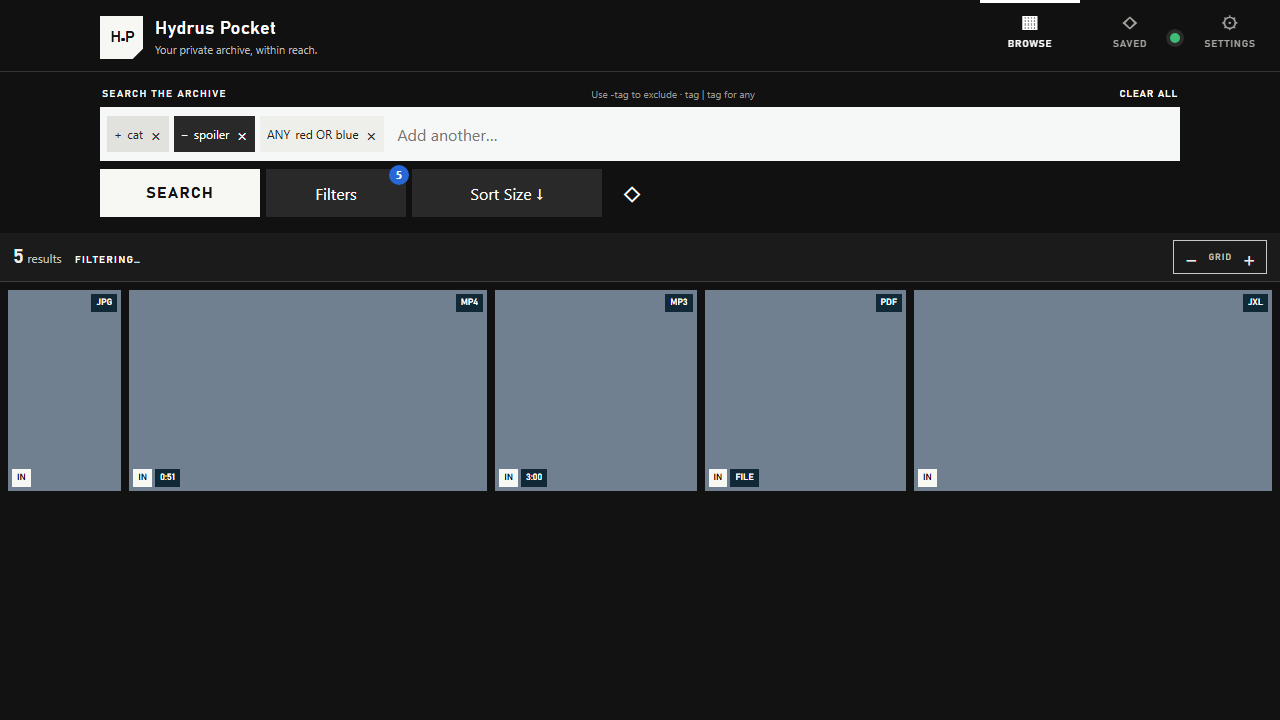
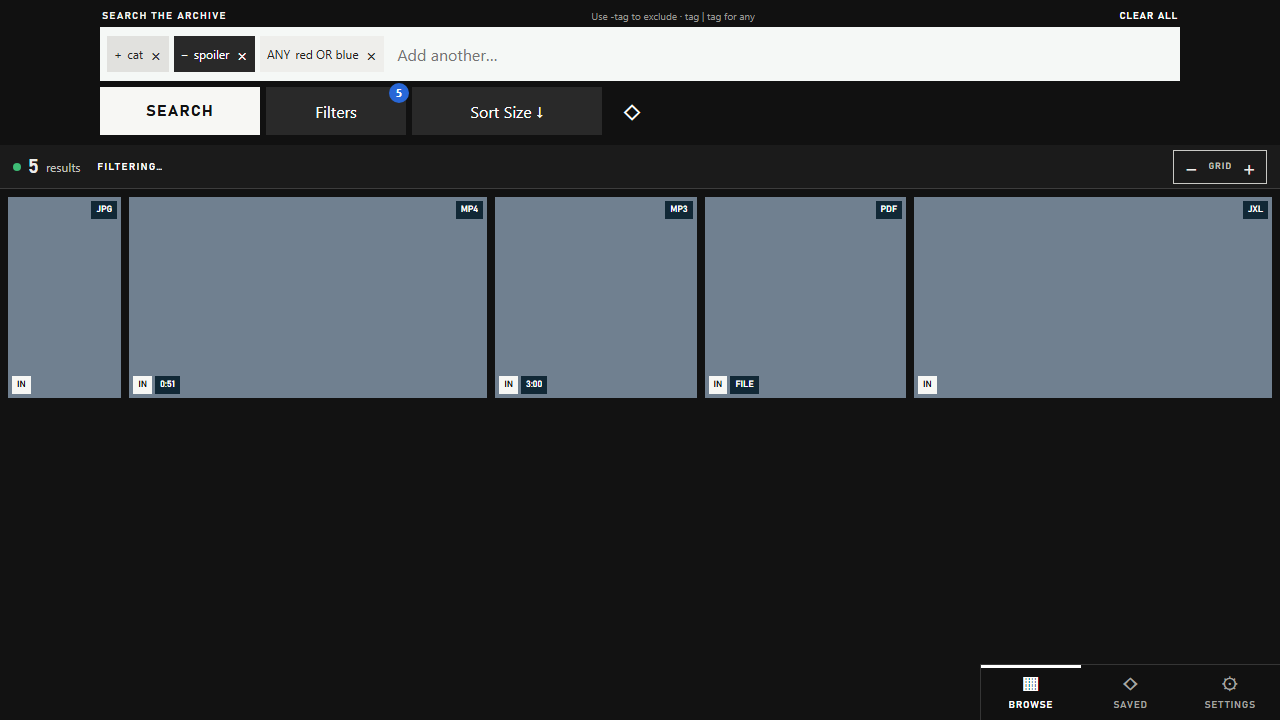
reclaim browse space with compact chrome

diff --git a/src/styles.css b/src/styles.css
@@ -103,7 +103,7 @@ button {
   background: #ff6471;
 }
 .search-panel {
-  padding: 12px 12px 10px;
+  padding: 8px 10px;
   background: var(--ink);
   color: white;
   z-index: 5;
@@ -115,7 +115,7 @@ button {
   display: flex;
   justify-content: space-between;
   align-items: end;
-  margin: 0 2px 7px;
+  margin: 0 2px 5px;
   font:
     600 10px/1.1 Bahnschrift,
     sans-serif;
@@ -237,7 +237,7 @@ button {
   display: grid;
   grid-template-columns: 1fr auto auto 48px;
   gap: 6px;
-  margin-top: 8px;
+  margin-top: 6px;
 }
 .primary,
 .secondary,
@@ -295,7 +295,7 @@ button {
   font-size: 24px;
 }
 .results-bar {
-  height: 49px;
+  height: 44px;
   flex: none;
   display: flex;
   align-items: center;
@@ -303,6 +303,17 @@ button {
   padding: 0 13px;
   background: white;
   border-bottom: 1px solid var(--line);
+}
+.result-summary {
+  display: flex;
+  align-items: center;
+  gap: 7px;
+}
+.result-summary .health-dot {
+  flex: none;
+  width: 8px;
+  height: 8px;
+  box-shadow: none;
 }
 .results-bar strong {
   font:
@@ -1195,16 +1206,18 @@ button {
     grid-column: auto;
   }
   .browse-page {
-    height: calc(100dvh - 64px);
+    height: 100dvh;
   }
   .bottom-nav {
-    height: 64px;
+    height: 56px;
     left: auto;
-    top: 0;
-    bottom: auto;
+    top: auto;
+    bottom: 0;
     width: 300px;
-    border: 0;
-    background: transparent;
+    border: 1px solid #353535;
+    border-bottom: 0;
+    border-right: 0;
+    background: var(--ink);
   }
   .app-shell {
     padding-bottom: 0;
@@ -1213,8 +1226,11 @@ button {
     height: 72px;
   }
   .search-panel {
-    padding-top: 16px;
-    padding-bottom: 16px;
+    padding-top: 10px;
+    padding-bottom: 10px;
+  }
+  .grid-scroll {
+    padding-bottom: 64px;
   }
   .sub-page {
     padding-bottom: 60px;

diff --git a/src/App.tsx b/src/App.tsx
@@ -249,23 +249,6 @@ function Browse({
   };
   return (
     <main className="browse-page">
-      <header className="masthead">
-        <div>
-          <span className="brand-mark">
-            H<span>●</span>P
-          </span>
-          <div>
-            <h1>Hydrus Pocket</h1>
-            <p>Your private archive, within reach.</p>
-          </div>
-        </div>
-        <span
-          className={`health-dot ${health?.hydrus === "ok" ? "ok" : "bad"}`}
-          title={
-            health?.hydrus === "ok" ? "Hydrus connected" : "Hydrus unavailable"
-          }
-        />
-      </header>
       <section className="search-panel">
         <SearchComposer
           tokens={draft.tokens}
@@ -351,7 +334,21 @@ function Browse({
       {search.data && (
         <>
           <div className="results-bar" role="status" aria-live="polite">
-            <div>
+            <div className="result-summary">
+              <span
+                className={`health-dot ${health?.hydrus === "ok" ? "ok" : "bad"}`}
+                title={
+                  health?.hydrus === "ok"
+                    ? "Hydrus connected"
+                    : "Hydrus unavailable"
+                }
+                aria-label={
+                  health?.hydrus === "ok"
+                    ? "Hydrus connected"
+                    : "Hydrus unavailable"
+                }
+                role="img"
+              />
               <strong>{fileIds.length.toLocaleString()}</strong>
               <span>
                 {" "}

diff --git a/server/app.ts b/server/app.ts
@@ -187,7 +187,7 @@ export async function buildApp(
       return {
         gateway: "ok",
         hydrus: missingPermissions.length || unsupportedApi ? "error" : "ok",
-        version: "1.1.0",
+        version: "1.2.0",
         hydrusVersion: version.hydrus_version,
         apiVersion: version.version,
         permissions: permissions.basic_permissions,
@@ -214,7 +214,7 @@ export async function buildApp(
         return {
           gateway: "ok",
           hydrus: "error",
-          version: "1.1.0",
+          version: "1.2.0",
           code: error.code,
           message: error.message,
           lastSuccess: hydrus.getLastSuccess(),

diff --git a/src/components/Media.tsx b/src/components/Media.tsx
@@ -179,8 +179,11 @@ export function ResultsGrid({
     overscan: 4,
   });
   useEffect(() => {
-    const saved = Number(localStorage.getItem(storageKey) ?? 0);
-    const frame = requestAnimationFrame(() => virtual.scrollToOffset(saved));
+    const frame = requestAnimationFrame(() =>
+      virtual.scrollToOffset(
+        Number(localStorage.getItem(storageKey) ?? 0),
+      ),
+    );
     return () => cancelAnimationFrame(frame);
   }, [virtual, storageKey, rows.length, width]);
   const visible = virtual.getVirtualItems();

diff --git a/e2e/app.spec.ts b/e2e/app.spec.ts
@@ -265,6 +265,13 @@ test("viewer navigation and reload restore the exact grid position", async ({
   await page.goto("/");
   const grid = page.locator("#results-scroll");
   await expect(grid).toBeVisible();
+  await expect
+    .poll(() =>
+      grid.evaluate(
+        (element) => element.scrollHeight - element.clientHeight,
+      ),
+    )
+    .toBeGreaterThanOrEqual(600);
   await grid.evaluate((element) => {
     element.scrollTop = 600;
     element.dispatchEvent(new Event("scroll"));

diff --git a/docs/AUDIT.md b/docs/AUDIT.md
@@ -2,7 +2,7 @@
 
 This audit maps the controlling `prompt.txt` scope to current evidence. “Automated” means repeatable local tests; “live” means the real Hydrus v649 / Client API v83 or the deployed tailnet service; “external” requires the physical Pixel or a user-designated mutable file.
 
-## Proven through v1.1.0
+## Proven through v1.2.0
 
 - Architecture/security: same-origin Fastify gateway, localhost Hydrus, renewable server-side session key, no generic proxy/CORS, validated bodies/queries, redacted headers, CSP/security headers, rate/body limits, `no-store` originals/API, secret scan, and tailnet-only HTTPS.
 - Health/recovery: diagnostic health, strict readiness, API-version/permission checks, timeout and error codes, session renewal, aborted-stream cleanup, graceful shutdown, continuously capped logs, crash restart, startup registration, health command, uninstall, update, and executable rollback path.
@@ -11,7 +11,7 @@ This audit maps the controlling `prompt.txt` scope to current evidence. “Autom
 - Mixed media: original-quality browser-native images plus quality-95 Hydrus-rendered JPEG XL with thumbnail placeholders, a page-session 200 MB LRU image cache warmed bidirectionally by six workers and retained across viewer reopenings, video poster/metadata warming, double-tap/double-click zoom, pinch/pan, swipe navigation, swipe-down close, video/audio native seeking, Range relay, audio placeholder, animation/inbox/duration/unsupported indicators, and metadata fallback.
 - Collection flow: tag ribbon on every viewed item, tag-to-current-search refinement, clean tag exploration branches with Back restoration, auto-applied chips/filters/sorts/limits, and retained results/metadata during background refinement.
 - Organization: display/storage tag separation, local-service selection, storage autocomplete, deduplicated namespace groups, guarded pending UI, authoritative refresh, duplicate-submit prevention, hash-based local tag mutations, and hash-based archive/unarchive. Delete/petition/moderation routes do not exist.
-- PWA/mobile/accessibility: Android manifest with 192/512/maskable PNGs, standalone shell, bounded thumbnail cache, uncached originals, safe update prompt, clear-cache control, bottom navigation/sheets, 48 px controls, keyboard/Back behavior, accessible labels/status announcements, reduced motion, responsive portrait/desktop layouts, and tested light/dark contrast.
+- PWA/mobile/accessibility: Android manifest with 192/512/maskable PNGs, standalone shell, bounded thumbnail cache, uncached originals, safe update prompt, clear-cache control, compact browse chrome, bottom mobile navigation, a bottom-right desktop dock, 48 px controls, keyboard/Back behavior, accessible labels/status announcements, reduced motion, responsive portrait/desktop layouts, and tested light/dark contrast.
 - Automated evidence: `npm run check:release` passes 36 Vitest tests, 21 Playwright workflows across Pixel-size/desktop/dark projects, WCAG A/AA serious+critical audit, production build, and production dependency audit. Gateway integration covers health/readiness, auth/session renewal, search, autocomplete, metadata, thumbnails, JPEG XL rendering, Range/invalid Range, timeouts, permission errors, tag writes, archive writes, and dynamic static-asset routing.
 - Live read-only evidence: real autocomplete, negative/OR/date/media/dimension/duration/ratio predicates, every required sort enum, broad bounded search, metadata, thumbnail, image/video/application discovery, a real 206 byte range, local health/readiness, HTTPS health, manifest, service worker, secret absence, and gateway crash recovery.
 

diff --git a/docs/PERFORMANCE.md b/docs/PERFORMANCE.md
@@ -2,4 +2,4 @@
 
 Release defaults: 500 search results, 128 browser metadata batch, 256 gateway ceiling, four virtualized overscan rows, three portrait columns, and 20-second Hydrus timeout. The in-memory metadata cache is capped at 768 most-recently-used files; older entries are refetched if revisited. Once the current media is ready, six workers fill a page-session 200 MB LRU image cache in next/current/previous proximity order across as many as 160 surrounding positions. Individual cached blobs are capped at 24 MB. The cache survives viewer close/reopen and is released with the browser page session. The next two videos warm metadata and poster frames without downloading full videos. Thumbnail Cache Storage is capped at 300 entries and seven days. Original media and API responses are `no-store` and never enter the offline cache.
 
-V1.1.0 production browser bundle (2026-07-11): 337.57 KiB application JavaScript / 106.64 KiB gzip, 5.81 KiB update helper / 2.40 KiB gzip, and 18.86 KiB CSS / 4.97 KiB gzip. The PWA precache is 354.53 KiB. A representative 3200×1800 JXL rendered through Hydrus to quality-95 JPEG in 435 ms and 1.06 MB on the production host; repeat renders benefit from Hydrus' image cache and the next eligible files use the viewer's session-wide RAM cache. Justified gallery rows are computed from metadata dimensions and virtualized with exact per-row height estimates. Target-phone landscape frame pacing, extended video-start latency, and gateway long-stream memory remain post-v1 operational measurements.
+V1.2.0 production browser bundle (2026-07-11): 337.38 KiB application JavaScript / 106.59 KiB gzip, 5.81 KiB update helper / 2.40 KiB gzip, and 19.05 KiB CSS / 5.02 KiB gzip. The PWA precache is 354.53 KiB. A representative 3200×1800 JXL rendered through Hydrus to quality-95 JPEG in 435 ms and 1.06 MB on the production host; repeat renders benefit from Hydrus' image cache and the next eligible files use the viewer's session-wide RAM cache. Justified gallery rows are computed from metadata dimensions and virtualized with exact per-row height estimates. Target-phone landscape frame pacing, extended video-start latency, and gateway long-stream memory remain post-v1 operational measurements.

diff --git a/README.md b/README.md
@@ -2,7 +2,7 @@
 
 Hydrus Pocket is a phone-first PWA for privately searching, filtering, sorting, browsing, viewing, and lightly organizing a mixed-media Hydrus archive over Tailscale. A localhost-only Node gateway owns the Hydrus credential; browsers never receive it.
 
-Version 1.1.0 adds browser-compatible JPEG XL viewing, a 200 MB bidirectional page-session media cache, tag-led collection navigation, Android-native zoom gestures, a monochrome Hydrus-inspired interface, and a justified gallery that preserves each file's aspect ratio.
+Version 1.2.0 adds browser-compatible JPEG XL viewing, a 200 MB bidirectional page-session media cache, tag-led collection navigation, Android-native zoom gestures, a monochrome Hydrus-inspired interface, a justified gallery that preserves each file's aspect ratio, and compact browse chrome that prioritizes gallery space.
 
 ## Current machine quick start
 

diff --git a/STATUS.md b/STATUS.md
@@ -1,6 +1,6 @@
 # Status
 
-Phase: v1.1.0 aspect-ratio gallery validation and publication.
+Phase: v1.2.0 compact browse chrome validation and publication.
 
 Completed: greenfield React/Fastify PWA; secure credential/session boundary; complete search composer, filters, sorts, limits, bounded/virtualized result flow, mixed-media viewer, tag editor, archive API, saved/recent searches, health/settings/offline states, PWA, tests, Windows deployment/auto-start, security/operations documentation.
 

diff --git a/CHANGELOG.md b/CHANGELOG.md
@@ -1,5 +1,10 @@
 # Changelog
 
+## 1.2.0 — 2026-07-11
+
+- Removed the permanent browse branding masthead and moved connection health beside the result count.
+- Compressed search/result chrome and replaced the desktop top navigation with a compact bottom-right dock, returning the full viewport height to the gallery.
+
 ## 1.1.0 — 2026-07-11
 
 - Replaced uniform square gallery cells with virtualized justified rows that preserve portrait, landscape, and square media proportions.
